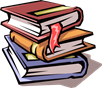
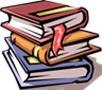
.

diff --git a/ueberMich.html b/ueberMich.html
@@ -12,27 +12,88 @@
 
 <body class="bg-black text-light">
 
-    <main class="container mt-2">
+    <main class="container mt-5">
 
+        <div class="row">
+            <div class="col-6">
+                <a class="custom-button-style btn-hover-red mb-3 mb-md-0" href="index.html">
+                    <span class="text-light">Zurück</span>
+                </a>
+            </div>
+            <div class="col-6 d-flex justify-content-end text-center">
+                <a class="custom-button-style white-hover" href="mehrthemen.html">
+                    <span>Mehr Themen</span>
+                </a>
 
-
-        <a class="custom-button-style btn-hover-red" href="index.html">
-            <span class="text-light">Zurück</span>
-        </a>
-
-        <div class="d-flex flex-column align-items-center row-gap-3 mt-5">
-            <a class="custom-button-style white-hover" href="hobbys.html">
-                <span class="text-light">Hobbys</span>
-            </a>
-
-            <a class="custom-button-style white-hover" href="gallery.html">
-                <span class="text-light">Werdegang</span>
-            </a>
-
+            </div>
         </div>
 
 
+
+
+
+
+        <h1 class="mb-5 text-center">Hobbys</h1>
+
+        <div class="row align-items-center text-center text-md-start mb-5">
+            <div class="col-12 col-md-2 mb-3 mb-md-0  ">
+                <a href="https://www.chess.com/member/generalcamel98" rel="noreferrer" target="_blank">
+                    <img src="pictures/chess.png" class="p-2 white-hover" alt="Schach">
+                </a>
+            </div>
+
+            <div class="col-12 col-md-10">
+                <p class="lead mb-0"">
+                    Ich spiele gerne Schach, sowohl online als auch Analog. Es ist ein tolles Spiel, um
+                    strategisches Denken zu fördern und sich mit Freunden zu messen. Es gibt immer neue Taktiken und
+                    Strategien zu lernen, was es zu einem spannenden und herausfordernden Hobby macht.
+                    Wenn du Lust hast, eine Partie zu spielen, kannst du mich gerne herausfordern!
+                    Klicke einfach auf das Schachbrett, um zu meinem Profil zu gelangen.
+                </p>
+            </div>
         </div>
+
+        <hr class=" my-5 text-secondary opacity-25">
+
+                <div class="row align-items-center text-center text-md-start mb-5">
+                    <div class="col-12 col-md-2 mb-3 mb-md-0">
+                        <img src="pictures/books.png" class="p-2 white-hover" alt="Bücher">
+                    </div>
+
+                    <div class="col-12 col-md-10">
+                        <p class="lead mb-0">
+                            Ich lese gerne Bücher, Romane, Science-Fiction, Fantasy, Thriller von allem etwas. Es ist
+                            eine
+                            großartige Möglichkeit, in andere Welten einzutauchen und die Fantasie zu beflügeln und den
+                            Abend
+                            ausklingen zu lassen.
+                        </p>
+                    </div>
+                </div>
+
+                <hr class="my-5 text-secondary opacity-25">
+
+                <div class="row align-items-center text-center text-md-start mb-5">
+                    <div class="col-12 col-md-2 mb-3 mb-md-0">
+                        <img src="pictures/programmierenklein.png" class="p-2 white-hover" alt="Programmieren">
+                    </div>
+
+                    <div class="col-12 col-md-10">
+                        <p class="lead mb-0">
+                            Ich entwickle gerne eigene Webseiten, Spiele und Apps. Es ist eine kreative und lohnende
+                            Tätigkeit,
+                            die es mir ermöglicht, meine Ideen zum Leben zu erwecken und neue Fähigkeiten zu erlernen.
+                            Es ist
+                            auch eine großartige Möglichkeit, Probleme zu lösen und innovative Lösungen zu entwickeln.
+                        </p>
+                    </div>
+                </div>
+
+                <hr class="my-5 text-secondary opacity-25">
+
+
 
     </main>
+
+    <script src="js/bootstrap.bundle.min.js"></script>
 </body>

diff --git a/mehrthemen.html b/mehrthemen.html
@@ -1,0 +1,30 @@
+<!DOCTYPE html>
+<html lang="de">
+
+<head>
+    <meta charset="UTF-8">
+    <meta name="viewport" content="width=device-width, initial-scale=1.0">
+    <title>Stephan Vibe</title>
+
+    <link rel="stylesheet" href="css/bootstrap.min.css">
+    <link rel="stylesheet" href="css/style.css">
+</head>
+
+<body class="bg-black text-light">
+
+    <main class="container mt-5 d-flex flex-column">
+
+        <p>Storys</p>
+        <p>Lieblingsbücher</p>
+        <p>Lieblingsserien</p>
+        <p>Lieblingsfilme</p>
+
+
+
+    </main>
+
+
+
+</body>
+
+</html>

diff --git a/index.html b/index.html
@@ -29,7 +29,11 @@
                                         <span>Kontakt</span>
                                 </a>
                         </div>
+
+                        <hr class="mt-2 text-secondary opacity-25">
                 </div>
+
+
 
                 <h1 class="mb-5">
                         <span class="text-light fw-bold d-block">Hi, ich bin Stephan!</span>